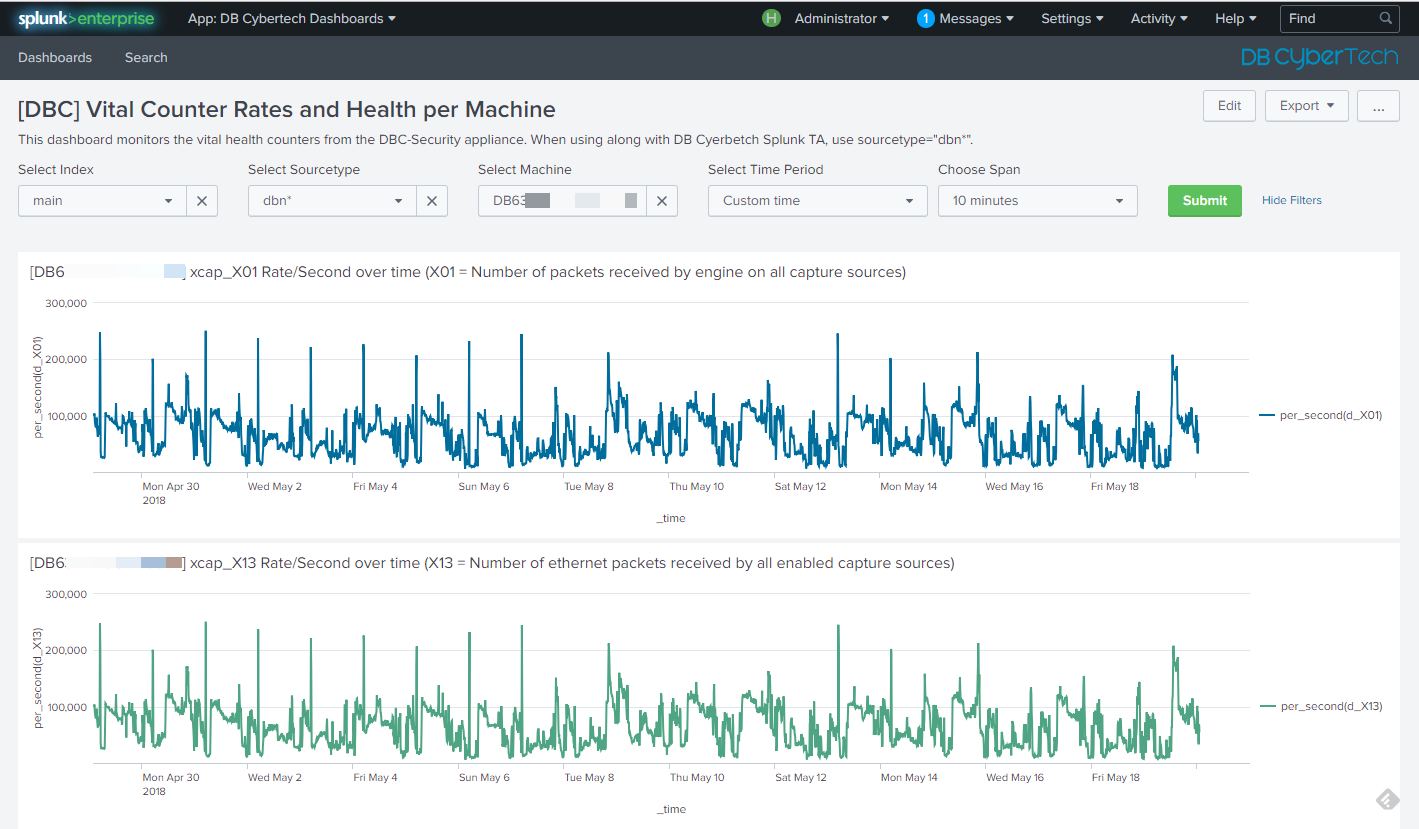
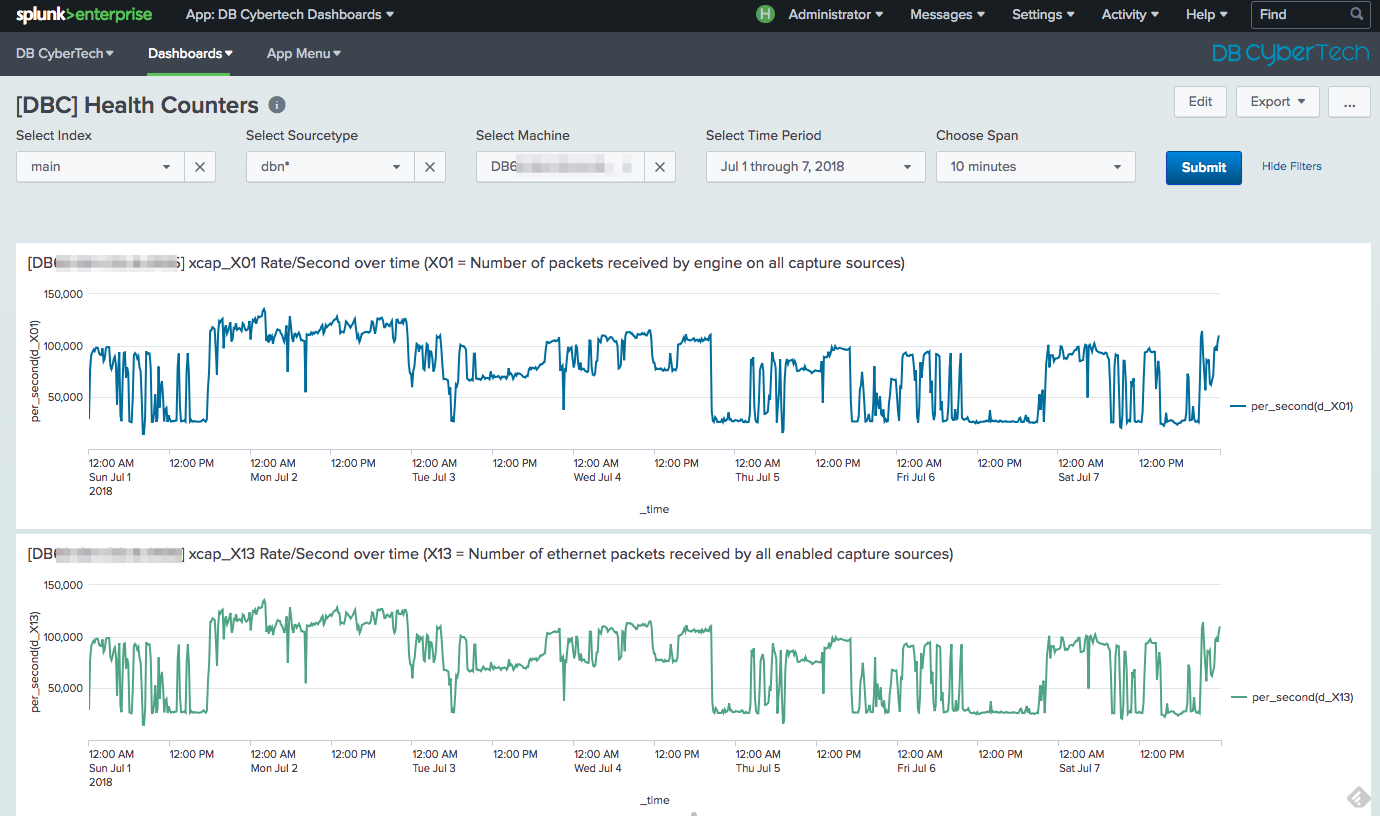
Added documentation for new dashboard, fix links in tooltips.

diff --git a/docs/app/dashboards.rst b/docs/app/dashboards.rst
@@ -81,10 +81,10 @@ Screenshot: Insider Threat Event Dashboard
 
 
 
-Vital Counter Rates and Health per Machine
+Health Counters
 ------------------------------------------
 
-The Vital Counter Rates and Health dashboard monitors the basic machine health information and the database protocols that are detected within the network that is being monitored by the DB-Security appliance.
+The Health Counters dashboard monitors the basic machine and network traffic health information of the DB-Security appliance.
 
 The dashboard particularly monitors the following unique syslog identifiers and fields:
 
@@ -93,18 +93,6 @@ The dashboard particularly monitors the following unique syslog identifiers and 
 - ``xcap_X12`` : *Packets dropped in the engine due to flow control or memory management pressure.  The dashboard graph shows the counter in rate/sec over time*.
 - ``xcap_X33`` : *Packets received by kernel. The dashboard graph shows the counter in rate/sec over time*.
 - ``xeng_X30`` : *Number of feed complete events (DB operation executions). The dashboard graph shows the counter in rate/sec over time*.
-- ``xpro_X22`` : *Extant Oracle connections. The dashboard graph shows the counter base value over time*.
-- ``xpro_X16`` : *Extant SQL server connections.  The dashboard graph shows the counter base value over time*.
-- ``xpro_X06`` : *Extant Sybase connections.  The dashboard graph shows the counter base value over time*.
-- ``xpro_X34`` : *Number of extant unidirectional connections.  The dashboard graph shows the counter base value over time*.
-- ``xpro_X08`` : *Extant Connections. The dashboard graph shows the counter base value over time*.
-- ``xpro_X18`` : *SQL Server records seen (requests and responses).  The dashboard graph shows the counter in rate/sec over time*.
-- ``xpro_X25`` : *Oracle request messages.  The dashboard graph shows the counter in rate/sec over time*.
-- ``xcap_X04`` : *Fraction of packets received and processed post BPF Filter.  The dashboard graph shows the percentage over time*.
-- ``xpro_X23`` : *Ratio of Oracle requests decoded vs all Oracle request. The dashboard graph shows the percentage over time*.
-- ``xpro_X24`` : *Ratio of Oracle requests decoded vs all Oracle request where no gap present. The dashboard graph shows the percentage over time*.
-- ``xpro_X19`` : *Ratio of good SQL server record decodes vs all protocols records handled.  The dashboard graph shows the percentage over time*.
-- ``xpro_X05`` : *Ratio of good Sybase protocol record decodes vs all protocols records handled.  The dashboard graph shows the percentage over time*.
 - ``os_loadavg_1`` : *5 minute CPU load average over time*
 - ``totalmem , freemem`` : *presented in the graph as the percentage memory used by the system*
 - ``disk_root_total , disk_root_avail``  : *presented in the graph as the percentage of root disk usage*
@@ -118,11 +106,49 @@ To use this dashboard, you have to provide the following input on the top of the
   4. Select Time Period:  select the time period that you would like to monitor.  For SOC operations, a 3 to 5 days span is more than enough.  For investigation purposes, a longer time span may be needed.
   5.  Choose span:  this is used to generate the graphs, the smaller the span, the longer it takes to load the graph. If you would like to view 1 month or greater time period, choose a span of 1 hour or greater to load the graphs faster.
 
-Screenshot: Vital Counters and Health Dashboard
+Screenshot: Health Counters Dashboard
 
   .. image:: images/5.png
      :height: 829px
      :width: 1419px
      :scale: 40%
      :alt: Vital Counters and Health Dashboard
+     :align: left
+
+
+Database Protocols Monitoring
+------------------------------------------
+
+The Database Protocols Monitoring dashboard monitors database protocols that are detected within the network that is being monitored by the DB-Security appliance.
+The dashboard particularly monitors the following unique syslog identifiers and fields:
+
+- ``xpro_X22`` : *Extant Oracle connections. The dashboard graph shows the counter base value over time*.
+- ``xpro_X16`` : *Extant SQL server connections.  The dashboard graph shows the counter base value over time*.
+- ``xpro_X06`` : *Extant Sybase connections.  The dashboard graph shows the counter base value over time*.
+- ``xpro_X34`` : *Number of extant unidirectional connections.  The dashboard graph shows the counter base value over time*.
+- ``xpro_X08`` : *Extant Connections. The dashboard graph shows the counter base value over time*.
+- ``xpro_X18`` : *SQL Server records seen (requests and responses).  The dashboard graph shows the counter in rate/sec over time*.
+- ``xpro_X25`` : *Oracle request messages.  The dashboard graph shows the counter in rate/sec over time*.
+- ``xcap_X04`` : *Fraction of packets received and processed post BPF Filter.  The dashboard graph shows the percentage over time*.
+- ``xpro_X23`` : *Ratio of Oracle requests decoded vs all Oracle request. The dashboard graph shows the percentage over time*.
+- ``xpro_X24`` : *Ratio of Oracle requests decoded vs all Oracle request where no gap present. The dashboard graph shows the percentage over time*.
+- ``xpro_X19`` : *Ratio of good SQL server record decodes vs all protocols records handled.  The dashboard graph shows the percentage over time*.
+- ``xpro_X05`` : *Ratio of good Sybase protocol record decodes vs all protocols records handled.  The dashboard graph shows the percentage over time*.
+- ``xpro_X41`` : *DB2 parses without dialect being set.  The dashboard graph shows the counter in rate/sec over time*.
+- ``xpro_X46`` : *DB2 queries opened (executed).  The dashboard graph shows the counter base value over time*.
+
+To use this dashboard, you have to provide the following input on the top of the dashboard:
+   1. Select Index:  select the proper index where the DB-Security event logs are being collected.
+   2. Select Sourcetype: selecting the proper sourcetype will help in the efficiency fo the dashboard.
+   3. Select Machine:  if your network have multiple DB-Security appliances, then this input will search for the past 7 days for DB-Security machines that have events and list it here in the dropdown.  Select the machine that you want to monitor.
+   4. Select Time Period:  select the time period that you would like to monitor.  For SOC operations, a 3 to 5 days span is more than enough.  For investigation purposes, a longer time span may be needed.
+   5. Choose span:  this is used to generate the graphs, the smaller the span, the longer it takes to load the graph. If you would like to view 1 month or greater time period, choose a span of 1 hour or greater to load the graphs faster.
+
+Screenshot: Health Counters Dashboard
+
+  .. image:: images/6.png
+     :height: 829px
+     :width: 1419px
+     :scale: 40%
+     :alt: Database Protocols Monitoring
      :align: left
